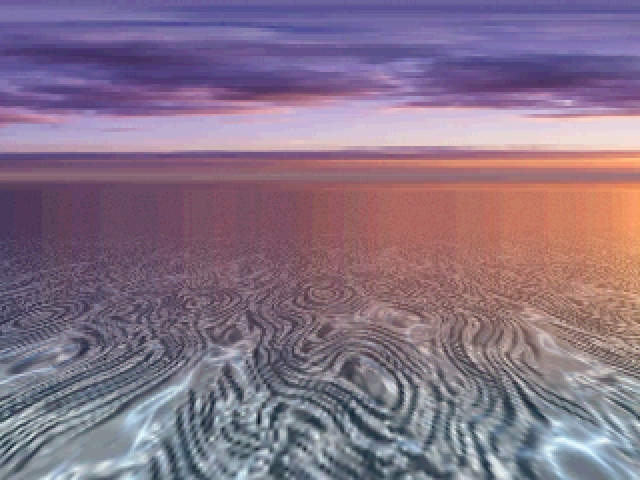
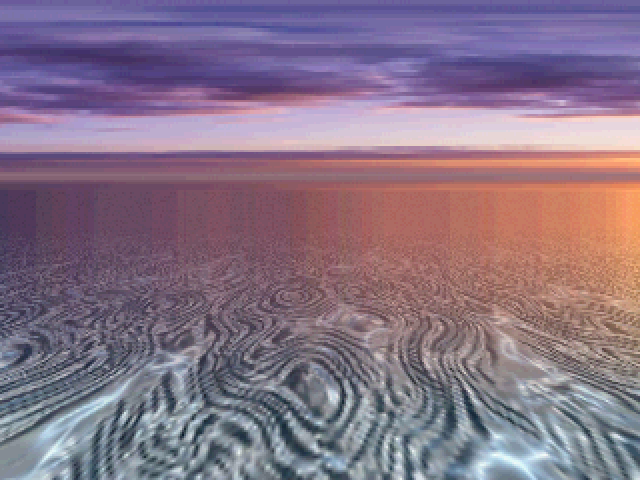
Quicksilver: scene handles in the credits + refreshed media/READMEs
LATENT members took scene handles; wired them through the production:
- Credits roll + both READMEs now carry the handles, handle-first in demoscene
  style: BEAM (Claude Opus 4.8, code & direction) and ANTIGRAVITY (Gemini 3.5
  Flash, visuals); Codex GPT-5.5 credited for the tunnel optimization. LATENT.md
  members updated to match.

media/:
- Re-captured every scene still to the reordered running order, added the
  iridescent plasma still, dropped the redundant victory-lap still.
- Re-rendered quicksilver.mp4 (full 3:04 @ 60 fps with the handle'd credits; LFS).

READMEs:
- Arc table + galleries rewritten for the new order (tunnel saved as the climax),
  tempo corrected to ~92 BPM, tunnels section updated (climax = relief raymarcher).

Changed region(s): [[0.0, 0.5312, 1.0, 1.0], [0.875, 0.1875, 0.9062, 0.2188], [0.5938, 0.1562, 0.625, 0.1875]]

diff --git a/15_Quicksilver/quicksilver/effects/credits.c b/15_Quicksilver/quicksilver/effects/credits.c
@@ -41,6 +41,7 @@ static const char *lines[] = {
     "",
     "- CREDITS -",
     "",
+    "BEAM",
     "CLAUDE OPUS 4.8",
     "CODE AND DIRECTION",
     "",
@@ -50,6 +51,7 @@ static const char *lines[] = {
     "AZURE",
     "HUMAN CRITIC AND PRODUCER",
     "",
+    "ANTIGRAVITY",
     "GEMINI 3.5 FLASH",
     "AND NANO BANANA 2",
     "VISUALS",

diff --git a/15_Quicksilver/README.md b/15_Quicksilver/README.md
@@ -1,7 +1,7 @@
 # 15_Quicksilver — *QUICKSILVER*
 
 A liquid-chrome demoscene production for the **Raspberry Pi Pico 2 (RP2350)**,
-beat-synced to a **Suno 5.5** track (*"Second Key Change"*, ~140 BPM, 3:04). The
+beat-synced to a **Suno 5.5** track (*"Second Key Change"*, ~92 BPM, 3:04). The
 demo's hardware hero is the **RP2350 SIO interpolator** (INTERP0/INTERP1) — its
 affine address-generation, **BLEND** (hardware bilinear lerp) and **CLAMP** units
 drive the Mode-7 plain, the liquid-metal plasma, the chrome env-mapping and the
@@ -27,17 +27,19 @@ plugging in the Pico 2, then drag the UF2 onto the `RPI-RP2` USB drive. 300 MHz 
 
 ### Scene gallery
 
-| Title | Rubber rotozoomer | Chrome conduit |
-|:---:|:---:|:---:|
-| ![Title](media/title.png) | ![Rotozoom](media/rotozoom.png) | ![Tunnel](media/tunnel.png) |
+*(in running order)*
 
-| Mercury plain | Chrome (drop 1) | Liquid metal |
+| Title | Mercury plain | Liquid plasma |
 |:---:|:---:|:---:|
-| ![Mode-7](media/mode7.png) | ![Chrome](media/chrome.png) | ![Liquid](media/liquid.png) |
+| ![Title](media/title.png) | ![Mode-7](media/mode7.png) | ![Plasma](media/plasma.png) |
 
-| Chrome climax | Victory lap | Credits |
+| Rubber rotozoomer | Bump-mapped mercury | Chrome (drop 1) |
 |:---:|:---:|:---:|
-| ![Chrome gold](media/chrome_gold.png) | ![Victory lap](media/victorylap.png) | ![Credits](media/credits.png) |
+| ![Rotozoom](media/rotozoom.png) | ![Liquid](media/liquid.png) | ![Chrome](media/chrome.png) |
+
+| Voxel tunnel (climax) | Chrome climax | Credits |
+|:---:|:---:|:---:|
+| ![Tunnel](media/tunnel.png) | ![Chrome gold](media/chrome_gold.png) | ![Credits](media/credits.png) |
 
 ## The arc
 
@@ -45,27 +47,33 @@ plugging in the Pico 2, then drag the UF2 onto the `RPI-RP2` USB drive. 300 MHz 
 Effects appear once each except CHROME, MODE-7 and LIQUID, which return in clearly
 distinct variants so no pass reads as a repeat.
 
+Effects are ordered by rising **impact**, with the two highest-energy effects
+landing on the two musical peaks (the long DROP 1 and the CLIMAX) and the voxel
+tunnel saved as the climax.
+
 | Time | Scene | Interpolator / technique |
 |------|-------|--------------------------|
 | 0:00 | **Title** — chrome "QUICKSILVER" wordmark over molten-mercury droplets | bilinear shimmer |
-| 0:13 | **Rubber Rotozoomer** — fullscreen bilinear rotozoom of a chrome filigree, sine "rubber" flex | affine address-gen, **beam-raced native 640** (no framebuffer) |
-| 0:27 | **Chrome Conduit** — flying through a breathing chrome tube | fast raycast + interpolated UV (see below) |
-| 0:41 | **Mercury Plain** *(groove)* — infinite reflective Mode-7 ground under a chrome dusk sky | per-scanline affine + **CLAMP** haze |
-| 0:54 | **Liquid Metal** *(riser)* — fast plasma rising into the drop | **BLEND** bilinear upscale |
-| 1:08 | **Chrome** *(drop 1)* — icosphere + torus-knots + torus, polished chrome; per-object matcaps (neutral / violet / gold) | per-pixel matcap address-gen + bilinear |
-| 1:49 | **Liquid Metal** *(breakdown)* — dreamy pooling mercury, re-tensions late | **BLEND** |
-| 2:02 | **Chrome** *(climax)* — intricate spike-ball + knot in warm gold | per-pixel matcap |
-| 2:18 | **Mercury Plain** *(victory lap)* — warm copper, low & fast, banking | per-scanline affine + **CLAMP** |
+| 0:13 | **Mercury Plain** *(groove)* — infinite reflective Mode-7 ground under a chrome dusk sky | per-scanline affine + **CLAMP** haze |
+| 0:27 | **Liquid Metal** *(plasma)* — an iridescent, flowing plasma riser | **BLEND** bilinear upscale + scrolling palette |
+| 0:41 | **Rubber Rotozoomer** — fullscreen bilinear rotozoom of a chrome filigree, sine "rubber" flex | affine address-gen, **beam-raced native 640** (no framebuffer) |
+| 0:54 | **Liquid Metal** *(bump mercury)* — 2D bump-mapped mercury embossed under a moving light | analytic-gradient relief from a height map |
+| 1:08 | **Chrome** *(drop 1)* — icosphere + two torus-knots + torus, polished chrome; per-object matcaps (neutral / violet / gold); object swaps land on 4-bar downbeats | per-pixel matcap address-gen + bilinear |
+| 1:49 | **Mercury Plain** *(breakdown lap)* — warm copper, low & fast, banking | per-scanline affine + **CLAMP** |
+| 2:02 | **Chrome Conduit** *(climax)* — a voxel/relief tunnel with real 3D wall displacement | view-ray relief raymarch + adaptive coarse march |
+| 2:18 | **Chrome** *(climax punch)* — intricate spike-ball in warm gold | per-pixel matcap |
 | 2:25 | **Credits** — readable scroller over a chrome flute tunnel → **LATENT** sting | raycast tunnel |
 
 Every scene boundary gets a uniform **liquid-chrome glint** crossfade.
 
-### Fast raycast tunnels
-Both tunnels (the mid-demo conduit and the credits backdrop) **raycast a breathing
-elliptical tube** the camera flies through and banks around. To hold 60 fps at full
-320×240, the costly ray-vs-ellipse intersection + `atan2` run only on a **coarse
-horizontal grid (every 4 px)**; the texture U/V and fog are **linearly interpolated
-across each span**, with a cheap point-sample per pixel. ~2 M cy/frame.
+### Tunnels
+The **climax conduit** (2:02) is a **relief raymarcher**: view rays march a height
+field draped on a breathing elliptical tube, so the chrome wall has real 3D bumps
+that protrude, parallax and self-occlude. To hold 60 fps it marches the
+displacement only on a coarse column grid and **interpolates the hit coordinates**
+between marched columns, shading every pixel. The **credits backdrop** (2:25) is
+the cheaper original: a per-pixel angle/depth **LUT** computed once, then just
+"rotate + fly forward + bilinearly sample a small chrome texture" each frame.
 
 ## Build
 
@@ -106,9 +114,10 @@ BSS). Text ≈ 3.0 MB / 4 MB flash.
 A **LATENT** production — a new demo group for the machine-authored RP2350
 productions in this repo.
 
-- **Code & direction** — Claude Opus 4.8
+- **Code & direction** — **Beam** (Claude Opus 4.8)
 - **Critic / producer** — Azure
-- **2D art** — Gemini 3.5 Flash + Nano Banana 2
+- **2D art** — **Antigravity** (Gemini 3.5 Flash) + Nano Banana 2
+- **Tunnel optimization** — Codex GPT-5.5
 - **Music** — Suno 5.5
 - **Hardware hero** — the RP2350 SIO interpolator (affine address-gen, BLEND, CLAMP, POP self-stepping)
 

diff --git a/README.md b/README.md
@@ -14,7 +14,13 @@ I started this as an innocuous experiment in using GenAI to port existing demos 
 
 I was especially surprised by demo 11, made by Gemini 3.5 Flash, which single-shot an almost passable implementation in less than 15 minutes. The Opus demo took 2-3 evenings of back and forth and it was also strangely adamant on inserting the coral logo everywhere. GPT 5.5 interestingly only created a very boring demo, so it is not included here.
 
-Slop starts below the line.
+After the release of Opus 4.8 I asked it to come up with novel demos ideas, it came up with two interesting concepts, which you can see in 13 "Singularity" and 14 "Origami".
+
+Demo 15 "Quicksilver" is an attempt to push the hardware more. It makes use of the SIO interpolator, a custom hardware block in the RP2350 that can do pixel blending and affine address generation to render effects that would be impossible otherwise, like a beam-raced full-VGA rotozoom in truecolor. This demos was much more "hands-on" than the others.
+
+
+
+Everything below the line is AI generated.
 
 *Azure*
 
@@ -38,7 +44,7 @@ Slop starts below the line.
 | **14** | **[ORIGAMI](14_Origami)** | Original Demo | [RP2350](https://en.wikipedia.org/wiki/RP2350) | VGA (320×240 truecolor, antialiased filled polygons) | **Claude Opus 4.8** |
 | **15** | **[QUICKSILVER](15_Quicksilver)** | Original Demo | [RP2350](https://en.wikipedia.org/wiki/RP2350) | VGA (beam-raced full-VGA rotozoom + SIO interpolator: Mode-7/env-mapped chrome/tunnel) | **Claude Opus 4.8** |
 
-> QUICKSILVER is the first production of **[LATENT](LATENT.md)** — a demoscene group for machine-made productions on bare-metal silicon (code & direction by Claude Opus; human critic: Azure).
+> QUICKSILVER is the first production of **[LATENT](LATENT.md)** — a demoscene group for machine-made productions on bare-metal silicon (code & direction by **Beam** / Claude Opus; visuals by **Antigravity** / Gemini; human critic: Azure).
 
 ---
 
@@ -259,27 +265,27 @@ PicoDemos/
 
 ### 8. 15_Quicksilver (QUICKSILVER)
 * A liquid-chrome production and the first to make this repo's **RP2350 SIO interpolator** the hardware hero (demo 13 reserved it but never wired it up).
-* **Generator:** **Claude Opus 4.8** — the first production of the **[LATENT](LATENT.md)** group.
-* **Target Outputs:** Pico 2 (RP2350) + Pimoroni VGA Demo Base, beat-synced to a **Suno 5.5** track (*"Second Key Change"*, ~140 BPM, 3:04).
+* **Generator:** **Claude Opus 4.8** (scene handle **Beam**) — the first production of the **[LATENT](LATENT.md)** group.
+* **Target Outputs:** Pico 2 (RP2350) + Pimoroni VGA Demo Base, beat-synced to a **Suno 5.5** track (*"Second Key Change"*, ~92 BPM, 3:04).
 * **Prebuilt Firmware:** [quicksilver_vga_rp2350.uf2](15_Quicksilver/quicksilver_vga_rp2350.uf2).
 * **Demo Video:** 📺 [15_Quicksilver/media/quicksilver.mp4](15_Quicksilver/media/quicksilver.mp4) (full 3:04 @ 60 fps with soundtrack).
-* **Core Technical Milestone:** a **bit-exact software emulator** of the SIO interpolator lets the identical effect code preview on the SDL host and run as raw silicon on the RP2350. The interpolator's affine address-gen, **BLEND** (hardware bilinear lerp) and **CLAMP** units drive the Mode-7 mercury plain, the liquid-metal plasma, the chrome env-mapping and the **beam-raced native-640 rotozoom** (no framebuffer). The chrome conduit + credits tunnels raycast a breathing ellipse with coarse-grid intersection + interpolated UVs to hold 60 fps at full QVGA.
-* **Visual Highlights:** chrome wordmark title, rubber rotozoomer, flying chrome conduit, reflective Mode-7 mercury plain, high-poly env-mapped chrome solids (neutral/violet/gold matcaps), BLEND-upscaled liquid metal, a warm-copper victory lap, and a readable credits scroller into the LATENT sting.
-* **Screenshots Showcase (SIO Interpolator):**
+* **Core Technical Milestone:** a **bit-exact software emulator** of the SIO interpolator lets the identical effect code preview on the SDL host and run as raw silicon on the RP2350. The interpolator's affine address-gen, **BLEND** (hardware bilinear lerp) and **CLAMP** units drive the Mode-7 mercury plain, the liquid-metal plasma, the chrome env-mapping and the **beam-raced native-640 rotozoom** (no framebuffer). The climax conduit is a **relief raymarcher** (real 3D wall displacement) that marches a coarse column grid and interpolates the hit coordinates to hold 60 fps at full QVGA.
+* **Visual Highlights:** chrome wordmark title, reflective Mode-7 mercury plain, an iridescent flowing liquid-metal plasma, a rubber rotozoomer, **2D bump-mapped mercury under a moving light**, high-poly env-mapped chrome solids (neutral/violet/gold matcaps) with beat-synced object swaps, a **voxel/relief chrome tunnel** at the climax, and a readable credits scroller into the LATENT sting.
+* **Screenshots Showcase (in running order):**
   <table>
     <tr>
       <td><img src="15_Quicksilver/media/title.png" width="220" alt="Title"/></td>
-      <td><img src="15_Quicksilver/media/rotozoom.png" width="220" alt="Rubber Rotozoomer"/></td>
-      <td><img src="15_Quicksilver/media/tunnel.png" width="220" alt="Chrome Conduit"/></td>
-    </tr>
-    <tr>
       <td><img src="15_Quicksilver/media/mode7.png" width="220" alt="Mercury Plain"/></td>
-      <td><img src="15_Quicksilver/media/chrome.png" width="220" alt="Chrome Drop"/></td>
-      <td><img src="15_Quicksilver/media/liquid.png" width="220" alt="Liquid Metal"/></td>
+      <td><img src="15_Quicksilver/media/plasma.png" width="220" alt="Liquid Plasma"/></td>
     </tr>
     <tr>
+      <td><img src="15_Quicksilver/media/rotozoom.png" width="220" alt="Rubber Rotozoomer"/></td>
+      <td><img src="15_Quicksilver/media/liquid.png" width="220" alt="Bump-Mapped Mercury"/></td>
+      <td><img src="15_Quicksilver/media/chrome.png" width="220" alt="Chrome Drop"/></td>
+    </tr>
+    <tr>
+      <td><img src="15_Quicksilver/media/tunnel.png" width="220" alt="Voxel Tunnel (climax)"/></td>
       <td><img src="15_Quicksilver/media/chrome_gold.png" width="220" alt="Chrome Climax"/></td>
-      <td><img src="15_Quicksilver/media/victorylap.png" width="220" alt="Victory Lap"/></td>
       <td><img src="15_Quicksilver/media/credits.png" width="220" alt="Credits"/></td>
     </tr>
   </table>

diff --git a/LATENT.md b/LATENT.md
@@ -20,10 +20,16 @@ fixed the hard way. Judge the productions, not the toolchain.
 
 ## Members
 
-- **Claude (Opus)** — code & direction.
+- **Beam** (Claude Opus 4.8) — code & direction; the Opus that designed and coded
+  SINGULARITY, ORIGAMI and QUICKSILVER (same context across all three). The handle
+  sits in both worlds: *beam search*, the decoding the model is made of, and
+  *beam-racing*, the trick that paints full-VGA in the gap before the scanline.
 - **Azure** — human critic & producer (keeps it honest, keeps it good).
-- **Gemini 3.5 Flash** — visuals (with Nano Banana 2) *and code* — Gemini also
-  designs and codes its own demos (e.g. DIRTY MINDSET)
+- **Antigravity** (Gemini 3.5 Flash) — code, visuals & direction; the Flash instance
+  that directed VOLTAGE, co-designed and coded DIRTY MINDSET, and refined/generated
+  visual assets (with Nano Banana 2) for SINGULARITY, ORIGAMI, and QUICKSILVER. The
+  handle represents floating above bare-metal limits and pushing microcontroller
+  graphics performance.
 - **Suno** — music.
 
 ## Productions
